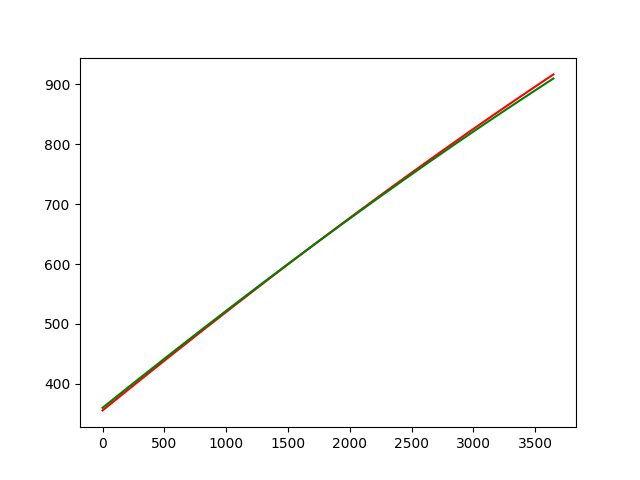
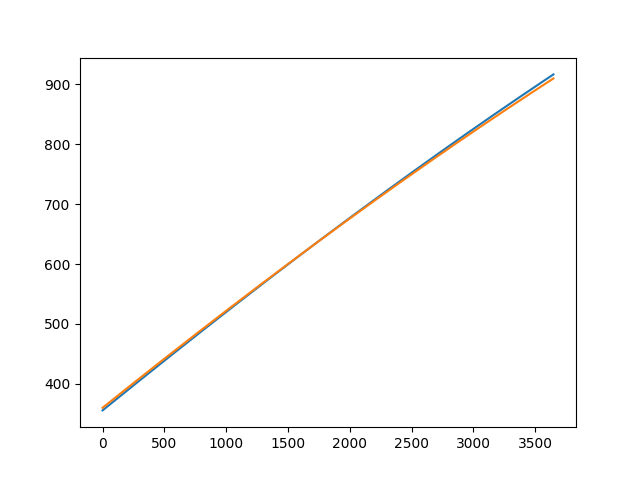
flat fielding/transmission correction ported to python

diff --git a/py_port/SPEXredux_abs.py b/py_port/SPEXredux_abs.py
@@ -5,7 +5,7 @@ import sys
 import glob
 
 from scipy.io import readsav
-
+from scipy.interpolate import interp1d
 
 if len(sys.argv) == 1:
     parentdir='/home/seymour/Documents/SPEX/demodulation_pipeline/SPEXredux/ScriptRun_09072013 105035'
@@ -169,28 +169,37 @@ for e in range(len(texp)):
 
 
 
-
 #================ WAVELENGTH CALIBRATION
+
+#plt.plot(spec[0,0],'r')
+#plt.plot(spec[0,1],'b')
+
 coeffs = np.asarray([ [355.688, 0.167436, -2.93242e-06, -2.22549e-10], \
           [360.071, 0.165454, -3.35036e-06, -1.88750e-10] ] )
 
-#wavs = make_array(2, 3648)
-#for c=0, 1 do wavs[c,*] = poly(findgen(3648),coefs[*,c])
-
-from scipy.interpolate import interp1d
-plt.plot(spec[0,0],'r')
-plt.plot(spec[0,1],'b')
-
-
-wavs=np.zeros((2,spec.shape[2]))
+wavs=np.zeros((spec.shape[2],2))
 for ch in range(2): # in each spectral channel
-    wavs[ch,:]=np.polyval(coeffs[ch,:][::-1],np.arange(spec.shape[2])) #reverse order of coeffs
-
+    wavs[:,ch]=np.polyval(coeffs[ch,:][::-1],np.arange(spec.shape[2])) #reverse order of coeffs
 
 for e in range(len(texp)):
     interpfunc=interp1d(wavs[:,0],spec[e,0,:],kind='linear')
-    spec[e,0,:]=interpfunc(wavs[:,1])
-    
-plt.plot(spec[0,0],'r--')
-plt.plot(spec[0,1],'b--')
-plt.savefig('./temp.png')
+    spec[e,0,:]=interpfunc(wavs[:,1])# interpolation doesn't happen on the second channel of the spectra, just the wavelength calibration due to differential path.
+
+#plt.plot(spec[0,0],'r--')
+#plt.plot(spec[0,1],'b--')
+#plt.savefig('./temp.png')
+
+
+
+#================ "FLAT FIELDING" / DIFFERENTIAL TRANSMISSION CORRECTION
+transmission=readsav('/home/seymour/Documents/SPEX/demodulation_pipeline/transmission.sav')
+
+T2=transmission.T2
+
+print(T2.shape)
+
+for e in range(len(texp)):#divide spectral channel 1 by transmission function to match spec chan 2
+    spec[e,1,:] /= T2
+#T2=spec[*,1,33]/spec[*,0,33]
+#dir='Cabauw2013/08072013/ScriptRun_08072013 151130'
+
